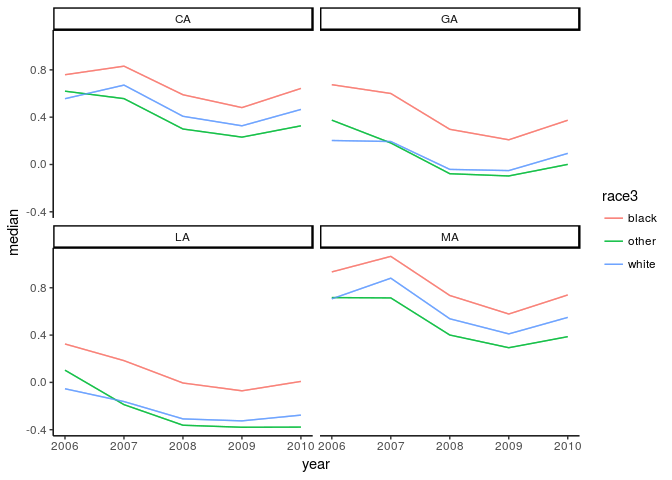
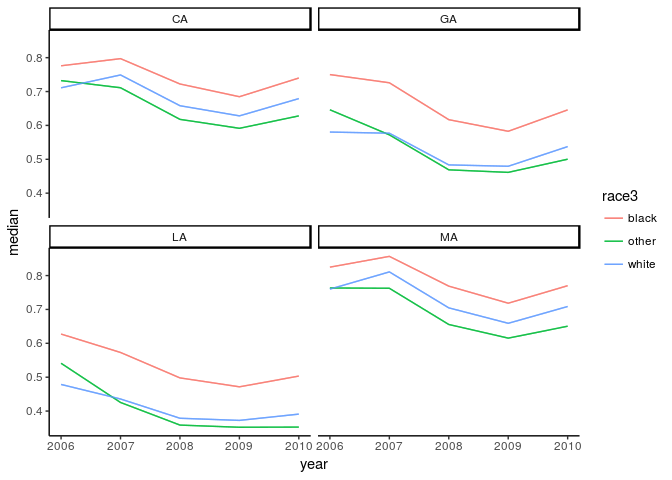
update README

diff --git a/README.md b/README.md
@@ -29,18 +29,11 @@ library(dgo)
 #> Loading required package: Rcpp
 #> Loading required package: rstan
 #> Loading required package: ggplot2
-#> Stackoverflow is a great place to get help:
-#> http://stackoverflow.com/tags/ggplot2.
 #> Loading required package: StanHeaders
 #> rstan (Version 2.14.1, packaged: 2016-12-28 14:55:41 UTC, GitRev: 5fa1e80eb817)
 #> For execution on a local, multicore CPU with excess RAM we recommend calling
 #> rstan_options(auto_write = TRUE)
 #> options(mc.cores = parallel::detectCores())
-#> 
-#> Attaching package: 'dgo'
-#> The following objects are masked from 'package:dgodata':
-#> 
-#>     toy_dgirtfit, toy_dgirt_in
 ```
 
 The minimal workflow from raw data to estimation is:
@@ -98,7 +91,7 @@ summary(dgirt_in_abortion)
 #> Hierarchical parameters:
 #> [1] "GA"         "LA"         "MA"         "race3other" "race3white"
 #> Modifiers of hierarchical parameters:
-#> character(0)
+#> NULL
 #> Constants:
 #>  Q  T  P  N  G  H  D 
 #>  1  5  5 60 12  1  1
@@ -147,7 +140,7 @@ For a high-level summary of the result, use `summary`.
 ``` r
 summary(dgirt_out_abortion)
 #> dgirt samples from 4 chains of 1500 iterations, 750 warmup, thinned every 1 
-#>   Drawn Fri Jan 27 15:29:23 2017 
+#>   Drawn Wed Feb  8 12:24:24 2017 
 #>   Package version 0.2.8 
 #>   Model version 2017_01_04_singleissue 
 #>   117 parameters; 60 theta_bars (year, state and race3)
@@ -163,10 +156,10 @@ summary(dgirt_out_abortion)
 #> 
 #> Elapsed time
 #>    chain warmup sample total
-#> 1:     1    11S    19S   30S
-#> 2:     2    12S    24S   36S
-#> 3:     3    12S    20S   32S
-#> 4:     4    15S    23S   38S
+#> 1:     1    10S    20S   30S
+#> 2:     2    10S    22S   32S
+#> 3:     3    10S    19S   29S
+#> 4:     4    13S    20S   33S
 ```
 
 To summarize posterior samples, use `summarize`. The default output gives summary statistics for the `theta_bar` parameters, which represent the mean of the latent outcome for the groups defined by time, local geographic area, and the demographic characteristics specified in the earlier call to `shape`.
@@ -174,19 +167,19 @@ To summarize posterior samples, use `summarize`. The default output gives summar
 ``` r
 head(summarize(dgirt_out_abortion))
 #>        param state race3 year      mean         sd    median     q_025
-#> 1: theta_bar    CA black 2006 0.7589070 0.07197208 0.7589930 0.6177013
-#> 2: theta_bar    CA black 2007 0.8428500 0.11277034 0.8313313 0.6565793
-#> 3: theta_bar    CA black 2008 0.5920294 0.07277908 0.5895297 0.4547283
-#> 4: theta_bar    CA black 2009 0.4817884 0.06275055 0.4809380 0.3572041
-#> 5: theta_bar    CA black 2010 0.6423101 0.04880717 0.6431888 0.5472412
-#> 6: theta_bar    CA other 2006 0.6202682 0.07065043 0.6196238 0.4897496
+#> 1: theta_bar    CA black 2006 0.7754603 0.02155152 0.7760716 0.7316139
+#> 2: theta_bar    CA black 2007 0.7988475 0.03076377 0.7971067 0.7442743
+#> 3: theta_bar    CA black 2008 0.7225603 0.02428735 0.7222470 0.6753476
+#> 4: theta_bar    CA black 2009 0.6846860 0.02226090 0.6847197 0.6395305
+#> 5: theta_bar    CA black 2010 0.7394164 0.01584579 0.7399492 0.7078935
+#> 6: theta_bar    CA other 2006 0.7319499 0.02315218 0.7322472 0.6878444
 #>        q_975
-#> 1: 0.8915466
-#> 2: 1.1271536
-#> 3: 0.7360888
-#> 4: 0.6041669
-#> 5: 0.7339871
-#> 6: 0.7638440
+#> 1: 0.8136820
+#> 2: 0.8701612
+#> 3: 0.7691617
+#> 4: 0.7271336
+#> 5: 0.7685217
+#> 6: 0.7775199
 ```
 
 Alternatively, `summarize` can apply arbitrary functions to posterior samples for whatever parameter is given by its `pars` argument. Enclose function names with quotes. For convenience, `"q_025"` and `"q_975"` give the 2.5th and 97.5th posterior quantiles.
@@ -206,12 +199,12 @@ To access posterior samples in tabular form use `as.data.frame`. By default, thi
 ``` r
 head(as.data.frame(dgirt_out_abortion))
 #>        param state race3 year iteration     value
-#> 1: theta_bar    CA black 2006         1 0.7110367
-#> 2: theta_bar    CA black 2006         2 0.6761136
-#> 3: theta_bar    CA black 2006         3 0.8117531
-#> 4: theta_bar    CA black 2006         4 0.7528276
-#> 5: theta_bar    CA black 2006         5 0.7649505
-#> 6: theta_bar    CA black 2006         6 0.6610892
+#> 1: theta_bar    CA black 2006         1 0.7614693
+#> 2: theta_bar    CA black 2006         2 0.7505157
+#> 3: theta_bar    CA black 2006         3 0.7915333
+#> 4: theta_bar    CA black 2006         4 0.7742232
+#> 5: theta_bar    CA black 2006         5 0.7778495
+#> 6: theta_bar    CA black 2006         6 0.7457225
 ```
 
 To poststratify the results use `poststratify`. The following example uses the group population proportions bundled as `annual_state_race_targets` to reweight and aggregate estimates to strata defined by state-years.
@@ -221,27 +214,27 @@ Read `help("poststratify")` for more details.
 ``` r
 poststratify(dgirt_out_abortion, annual_state_race_targets, strata_names =
   c("state", "year"), aggregated_names = "race3")
-#>     state year       value
-#>  1:    CA 2006  0.58070938
-#>  2:    CA 2007  0.66760350
-#>  3:    CA 2008  0.40460772
-#>  4:    CA 2009  0.32401519
-#>  5:    CA 2010  0.45691132
-#>  6:    GA 2006  0.35072232
-#>  7:    GA 2007  0.31909209
-#>  8:    GA 2008  0.06248834
-#>  9:    GA 2009  0.02700250
-#> 10:    GA 2010  0.17943975
-#> 11:    LA 2006  0.06730273
-#> 12:    LA 2007 -0.05769747
-#> 13:    LA 2008 -0.21643468
-#> 14:    LA 2009 -0.24944193
-#> 15:    LA 2010 -0.19162850
-#> 16:    MA 2006  0.71862015
-#> 17:    MA 2007  0.88320336
-#> 18:    MA 2008  0.54223115
-#> 19:    MA 2009  0.41404093
-#> 20:    MA 2010  0.54978420
+#>     state year     value
+#>  1:    CA 2006 0.7188081
+#>  2:    CA 2007 0.7470397
+#>  3:    CA 2008 0.6566884
+#>  4:    CA 2009 0.6267420
+#>  5:    CA 2010 0.6756431
+#>  6:    GA 2006 0.6333206
+#>  7:    GA 2007 0.6223014
+#>  8:    GA 2008 0.5243312
+#>  9:    GA 2009 0.5105648
+#> 10:    GA 2010 0.5704081
+#> 11:    LA 2006 0.5258743
+#> 12:    LA 2007 0.4770990
+#> 13:    LA 2008 0.4151797
+#> 14:    LA 2009 0.4024384
+#> 15:    LA 2010 0.4246879
+#> 16:    MA 2006 0.7629225
+#> 17:    MA 2007 0.8101844
+#> 18:    MA 2008 0.7056092
+#> 19:    MA 2009 0.6600767
+#> 20:    MA 2010 0.7082504
 ```
 
 To plot the results use `dgirt_plot`. This method plots summaries of posterior samples by time period. By default, it shows a 95% credible interval around posterior medians for the `theta_bar` parameters, for each local geographic area. For this (unconverged) toy example we omit the CIs.
@@ -267,12 +260,12 @@ ps <- poststratify(dgirt_out_abortion, annual_state_race_targets, strata_names =
   c("state", "year"), aggregated_names = "race3")
 head(ps)
 #>    state year     value
-#> 1:    CA 2006 0.5807094
-#> 2:    CA 2007 0.6676035
-#> 3:    CA 2008 0.4046077
-#> 4:    CA 2009 0.3240152
-#> 5:    CA 2010 0.4569113
-#> 6:    GA 2006 0.3507223
+#> 1:    CA 2006 0.7188081
+#> 2:    CA 2007 0.7470397
+#> 3:    CA 2008 0.6566884
+#> 4:    CA 2009 0.6267420
+#> 5:    CA 2010 0.6756431
+#> 6:    GA 2006 0.6333206
 dgirt_plot(ps, group_names = NULL, time_name = "year", geo_name = "state")
 ```
 
@@ -313,7 +306,7 @@ summary(dgirt_in_liberalism)
 #> Hierarchical parameters:
 #> [1] "GA"         "LA"         "MA"         "race3other" "race3white"
 #> Modifiers of hierarchical parameters:
-#> character(0)
+#> NULL
 #> Constants:
 #>   Q   T   P   N   G   H   D 
 #>   5   5   5 300  12   1   1
@@ -323,18 +316,18 @@ Response counts by item-year:
 
 ``` r
 get_item_n(dgirt_in_liberalism, by = "year")
-#>    year abortion affirmative_action stemcell_research gaymarriage_amendment
-#> 1: 2006     5275               4750              2483                  2642
-#> 2: 2007     1690               1557              1705                  1163
-#> 3: 2008     4697               4704              4002                  4265
-#> 4: 2009     2141               2147                 0                     0
-#> 5: 2010     9204               9241              9146                  9226
-#>    partialbirth_abortion
-#> 1:                  5064
-#> 2:                  1684
-#> 3:                     0
-#> 4:                     0
-#> 5:                     0
+#>    year abortion affirmative_action stemcell_research
+#> 1: 2006     5275               4750              2483
+#> 2: 2007     1690               1557              1705
+#> 3: 2008     4697               4704              4002
+#> 4: 2009     2141               2147                 0
+#> 5: 2010     9204               9241              9146
+#>    gaymarriage_amendment partialbirth_abortion
+#> 1:                  2642                  5064
+#> 2:                  1163                  1684
+#> 3:                  4265                     0
+#> 4:                     0                     0
+#> 5:                  9226                     0
 ```
 
 ### Fit a model with `dgirt`
@@ -357,7 +350,7 @@ For a high-level summary of the result, use `summary`.
 ``` r
 summary(dgirt_out_liberalism)
 #> dgirt samples from 4 chains of 3000 iterations, 1500 warmup, thinned every 1 
-#>   Drawn Fri Jan 27 15:35:24 2017 
+#>   Drawn Wed Feb  8 12:29:09 2017 
 #>   Package version 0.2.8 
 #>   Model version 2017_01_04 
 #>   137 parameters; 60 theta_bars (year, state and race3)
@@ -372,11 +365,11 @@ summary(dgirt_out_liberalism)
 #>  0.9997  1.0000  1.0010  1.0020  1.0020  1.0150
 #> 
 #> Elapsed time
-#>    chain warmup sample  total
-#> 1:     1 1M 55S  2M 0S 3M 55S
-#> 2:     2 1M 53S 3M 24S 4M 77S
-#> 3:     3  2M 5S  2M 0S  4M 5S
-#> 4:     4 1M 60S  2M 1S 3M 61S
+#>    chain warmup sample   total
+#> 1:     1 1M 44S 1M 50S  2M 94S
+#> 2:     2 1M 42S 2M 54S  3M 96S
+#> 3:     3 1M 54S 1M 48S 2M 102S
+#> 4:     4 1M 47S 1M 50S  2M 97S
 ```
 
 To summarize posterior samples, use `summarize`. The default output gives summary statistics for the `theta_bar` parameters, which represent the mean of the latent outcome for the groups defined by time, local geographic area, and the demographic characteristics specified in the earlier call to `shape`.
